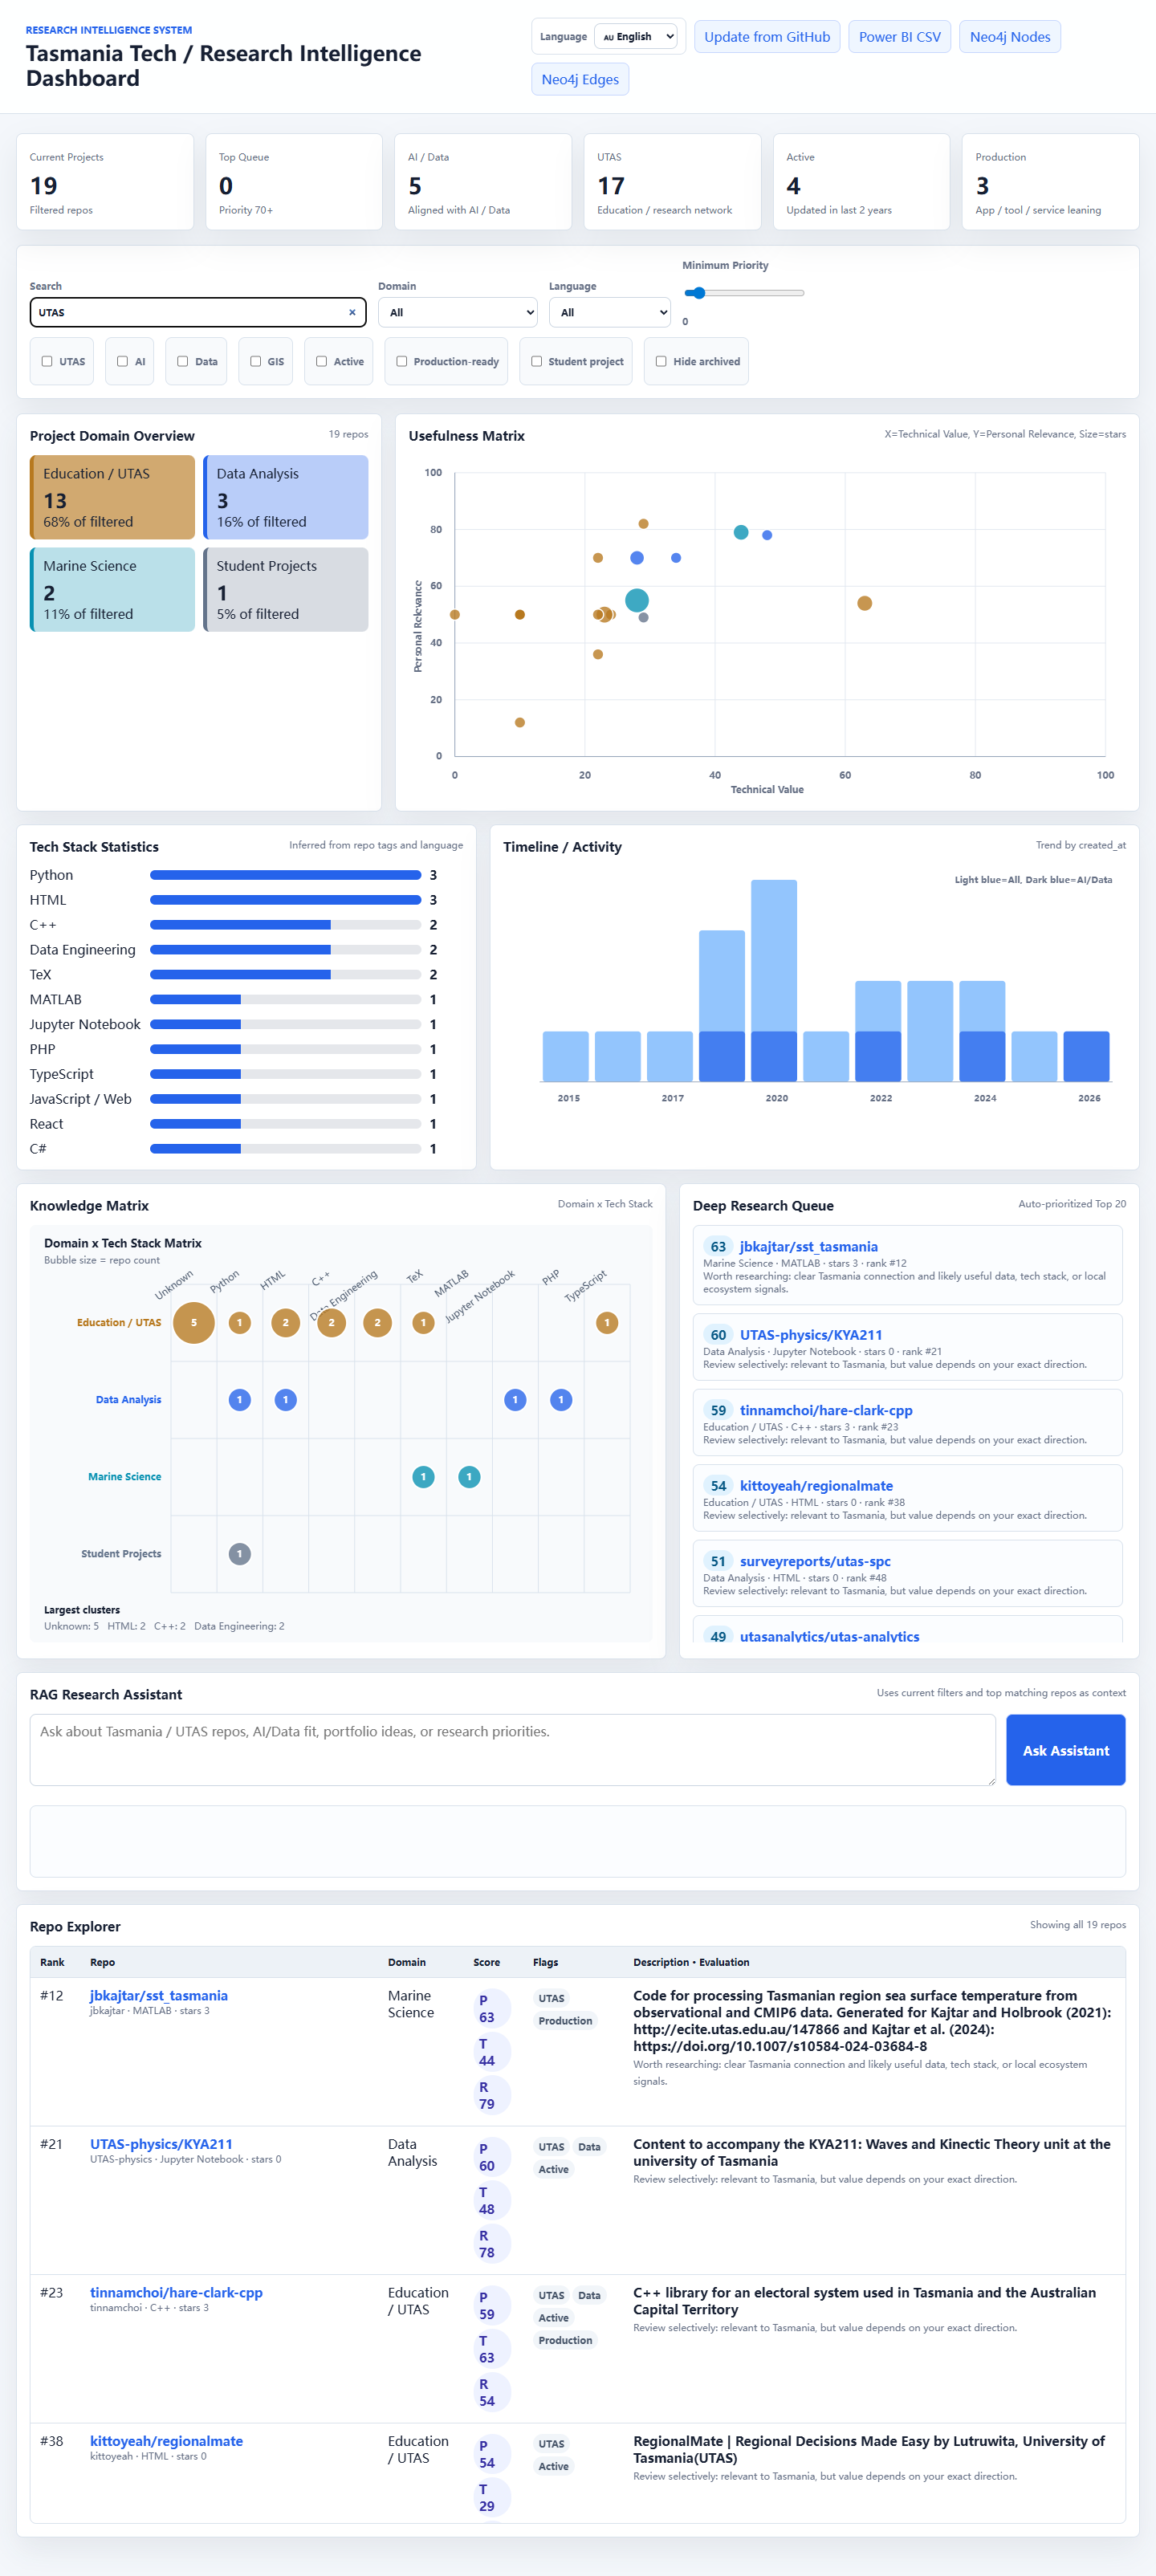
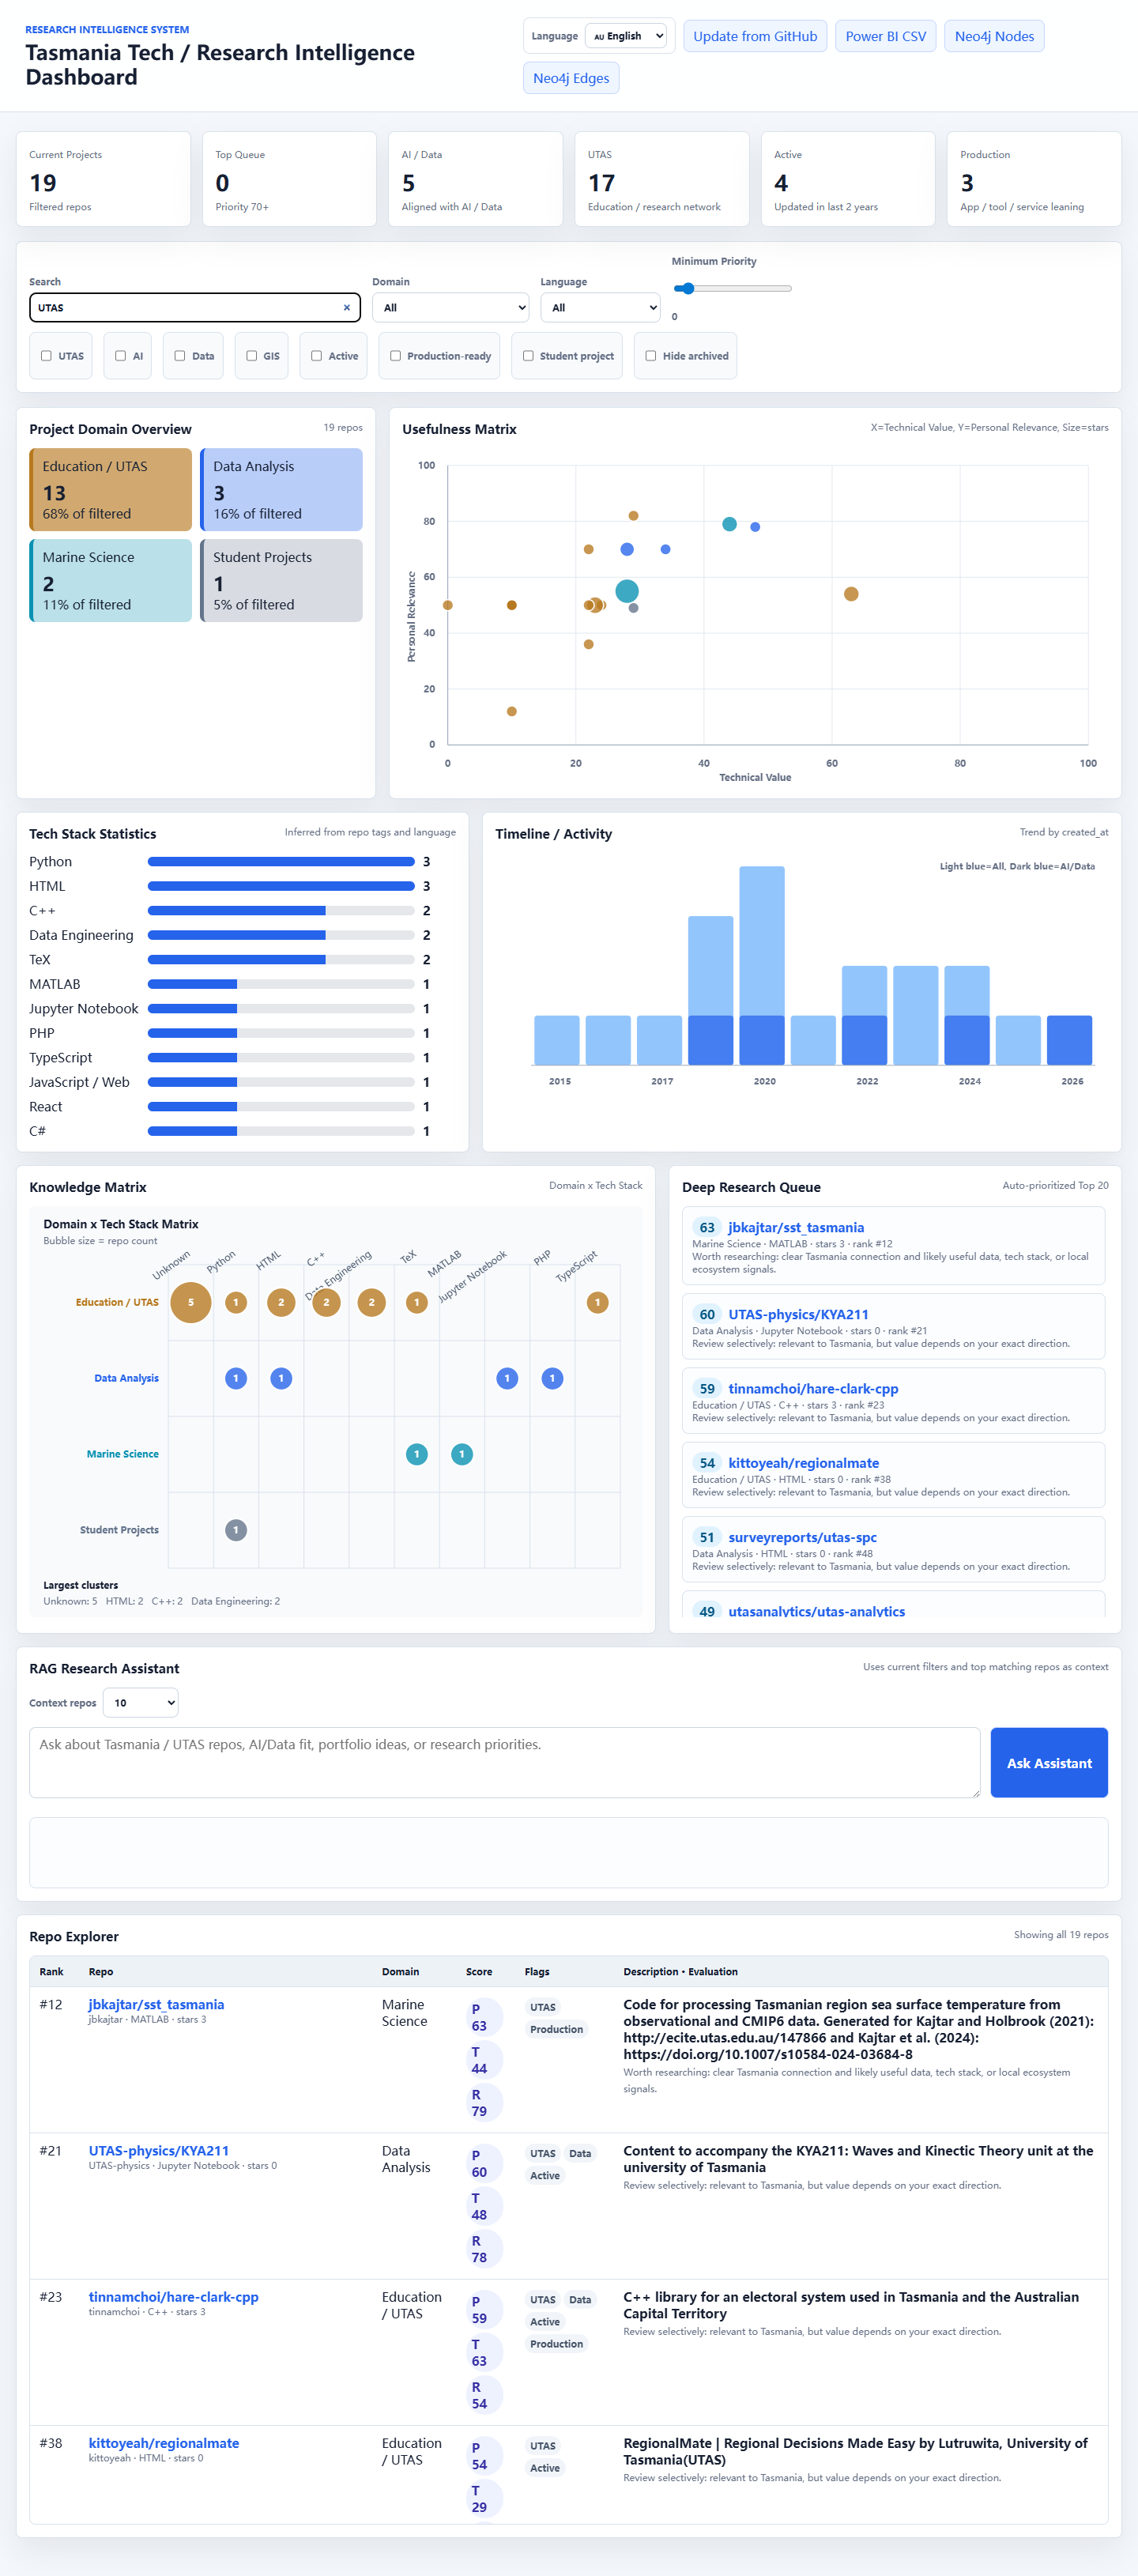
02

diff --git a/outputs/tasmania_research_dashboard/styles.css b/outputs/tasmania_research_dashboard/styles.css
@@ -329,6 +329,23 @@ svg {
   gap: 12px;
 }
 
+.assistant-controls {
+  display: flex;
+  gap: 12px;
+  flex-wrap: wrap;
+  align-items: center;
+}
+
+.assistant-controls label {
+  display: flex;
+  align-items: center;
+  gap: 8px;
+}
+
+.assistant-controls select {
+  min-width: 96px;
+}
+
 .assistant-input {
   display: grid;
   grid-template-columns: 1fr auto;

diff --git a/outputs/tasmania_research_dashboard/index.html b/outputs/tasmania_research_dashboard/index.html
@@ -120,6 +120,18 @@
             <span data-i18n="ragHint">Uses current filters and top matching repos as context</span>
           </div>
           <div class="assistant-panel">
+            <div class="assistant-controls">
+              <label>
+                <span data-i18n="ragTopK">Context repos</span>
+                <select id="ragTopK">
+                  <option value="5">5</option>
+                  <option value="10" selected>10</option>
+                  <option value="15">15</option>
+                  <option value="24">24</option>
+                  <option value="50">50</option>
+                </select>
+              </label>
+            </div>
             <div class="assistant-input">
               <textarea id="ragQuestion" rows="3" data-i18n-placeholder="ragPlaceholder" placeholder="Ask about Tasmania / UTAS repos, AI/Data fit, portfolio ideas, or research priorities."></textarea>
               <button id="ragAskBtn" type="button" data-i18n="askAssistant">Ask Assistant</button>

diff --git a/outputs/tasmania_research_dashboard/dashboard.js b/outputs/tasmania_research_dashboard/dashboard.js
@@ -53,6 +53,7 @@ const i18n = {
     queueHint: "Auto-prioritized Top 20",
     ragAssistant: "RAG Research Assistant",
     ragHint: "Uses current filters and top matching repos as context",
+    ragTopK: "Context repos",
     ragPlaceholder: "Ask about Tasmania / UTAS repos, AI/Data fit, portfolio ideas, or research priorities.",
     askAssistant: "Ask Assistant",
     ragThinking: "Thinking with {count} repo context items...",
@@ -112,6 +113,7 @@ const i18n = {
     queueHint: "自动优先级 Top 20",
     ragAssistant: "RAG 研究助手",
     ragHint: "使用当前筛选条件和最匹配的 repo 作为上下文",
+    ragTopK: "上下文 repo 数",
     ragPlaceholder: "可以询问 Tasmania / UTAS repo、AI/Data 匹配、作品集想法或研究优先级。",
     askAssistant: "询问助手",
     ragThinking: "正在结合 {count} 个 repo 上下文思考...",
@@ -171,6 +173,7 @@ const i18n = {
     queueHint: "自動優先級 Top 20",
     ragAssistant: "RAG 研究助手",
     ragHint: "使用目前篩選條件和最匹配的 repo 作為上下文",
+    ragTopK: "上下文 repo 數",
     ragPlaceholder: "可以詢問 Tasmania / UTAS repo、AI/Data 匹配、作品集想法或研究優先級。",
     askAssistant: "詢問助手",
     ragThinking: "正在結合 {count} 個 repo 上下文思考...",
@@ -766,7 +769,7 @@ function scoreQuestionMatch(repo, terms) {
   return score;
 }
 
-function selectRagRepos(question) {
+function selectRagRepos(question, limit) {
   const terms = question
     .toLowerCase()
     .split(/[^a-z0-9+#.-]+/i)
@@ -774,7 +777,7 @@ function selectRagRepos(question) {
     .slice(0, 30);
   return [...state.filtered]
     .sort((a, b) => scoreQuestionMatch(b, terms) - scoreQuestionMatch(a, terms))
-    .slice(0, 24)
+    .slice(0, limit)
     .map((repo) => ({
       full_name: repo.full_name,
       url: repo.url,
@@ -802,7 +805,8 @@ async function askRagAssistant() {
     status.classList.add("is-error");
     return;
   }
-  const repos = selectRagRepos(question);
+  const topK = Number($("ragTopK").value || 10);
+  const repos = selectRagRepos(question, topK);
   status.textContent = t("ragThinking", { count: repos.length });
   status.classList.remove("is-error");
   answer.textContent = "";